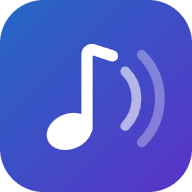
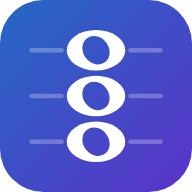
Novo ícone (acorde na pauta) e limpeza dos nomes e migrações antigas
O banco IndexedDB passa a se chamar "acordia" e a chave do tema "acordia-theme".
Sai a migração do localStorage da primeira versão, a troca de nomes padrão
antigos, o backup em formato de lista e o campo legado target em sanitizeEntry.

diff --git a/js/store.js b/js/store.js
@@ -1,10 +1,9 @@
 // Armazenamento no IndexedDB (músicas, medleys e preferências), com cópia em memória para leitura
-// síncrona pela interface. Na primeira vez, migra os dados da versão antiga (localStorage).
-import { sanitizeEntry, sanitizeOptions, songTitle, DEFAULT_OPTIONS } from "./core.js";
+// síncrona pela interface.
+import { sanitizeOptions, songTitle, DEFAULT_OPTIONS } from "./core.js";
 import { t } from "./i18n.js";
 
-// Nome interno mantido da primeira versão para não perder dados já salvos.
-const DB_NAME = "medley-generator", DB_VERSION = 1, STORES = ["songs","medleys","settings"];
+const DB_NAME = "acordia", DB_VERSION = 1, STORES = ["songs","medleys","settings"];
 export const data = {songs: new Map(), medleys: new Map(), settings: {}};
 let db = null, onError = () => {};
 
@@ -42,7 +41,6 @@ export async function init(errorHandler){
   }catch(e){
     db = null; onError(e);
   }
-  if(!data.settings.migrated){ await migrateLegacy(); setSetting("migrated", true); }
   cleanup();
   if(navigator.storage && navigator.storage.persist) navigator.storage.persist().catch(()=>{});
   return !!db;
@@ -71,29 +69,4 @@ export const newMedleyItem = medleyId => ({id:newId("i"), type:"medley", medleyI
 function cleanup(){
   const used = new Set([...data.medleys.values()].flatMap(m=>m.items.map(i=>i.songId)));
   [...data.songs.values()].forEach(s=>{ if(!s.text.trim() && !used.has(s.id)) deleteSong(s.id); });
-}
-
-async function migrateLegacy(){
-  let lib = [], state = null;
-  try{ lib = JSON.parse(localStorage.getItem("folha-biblioteca-v1") || "[]"); }catch(e){}
-  try{ state = JSON.parse(localStorage.getItem("folha-cifras-v1") || "null"); }catch(e){}
-  if(!Array.isArray(lib)) lib = [];
-  const byOld = new Map();
-  lib.forEach(raw=>{
-    const e = sanitizeEntry(raw); if(!e) return;
-    const s = createSong({title:e.title, text:e.text, type:e.type, key:e.key, bpm:e.bpm});
-    if(e.id) byOld.set(e.id, s);
-  });
-  if(state && Array.isArray(state.songs) && state.songs.some(t=>typeof t === "string" && t.trim())){
-    const at = (a, i) => Array.isArray(a) && typeof a[i] === "string" ? a[i] : "";
-    const items = [];
-    state.songs.forEach((text, i)=>{
-      if(typeof text !== "string" || !text.trim()) return;
-      let s = byOld.get(at(state.libIds, i));
-      if(!s) s = createSong({text, type: at(state.types, i) === "letra" ? "letra" : "", key: at(state.keys, i)});
-      items.push(newItem(s.id, {target: at(state.targets, i)}));
-    });
-    const m = createMedley(t("medley.defaultName"), items, Object.assign({}, DEFAULT_OPTIONS, {dedupe: state.dedupe !== false}));
-    setSetting("currentMedley", m.id);
-  }
 }

diff --git a/js/app.js b/js/app.js
@@ -106,7 +106,7 @@ function measure(s, fs, font){
 const THEME_ICON = {system:"monitor", light:"sun", dark:"moon"};
 function applyTheme(th){
   if(th === "light" || th === "dark") document.documentElement.dataset.theme = th; else delete document.documentElement.dataset.theme;
-  try{ localStorage.setItem("mg-theme", th); }catch(e){}
+  try{ localStorage.setItem("acordia-theme", th); }catch(e){}
   const name = t("theme." + th);
   $$("[data-theme-toggle]").forEach(b=>{
     b.querySelector("use").setAttribute("href", "#i-" + THEME_ICON[th]);
@@ -752,7 +752,7 @@ function exportLibrary(){
 async function importLibrary(file){
   try{
     const d = JSON.parse(await file.text());
-    const rows = Array.isArray(d) ? d : d && d.songs;
+    const rows = d && d.songs;
     if(!Array.isArray(rows)) throw 0;
     const idMap = new Map(), medMap = new Map(); let ns = 0, nm = 0;
     rows.forEach(raw => {
@@ -1113,8 +1113,6 @@ async function main(){
   initDropdowns();
   await store.init(() => toast(t("lib.saveFail")));
   setLang(data.settings.lang || detectLang());
-  // Nomes padrão antigos (de quando o app se chamava Medley Generator) passam para o nome atual.
-  data.medleys.forEach(m => { if(["Meu medley", "My medley", "Meu repertório", "My setlist"].includes(m.name) && m.name !== t("medley.defaultName")){ m.name = t("medley.defaultName"); store.saveMedley(m); } });
   applyLang();
   sheetMode = ["cifras","graus","letra"].includes(data.settings.sheetMode) ? data.settings.sheetMode : "cifras";
   metro = createMetronome(audio, data.settings.metro || {});

diff --git a/index.html b/index.html
@@ -17,7 +17,7 @@
 <link rel="stylesheet" href="css/app.css">
 <script>
   // Aplica o tema antes de pintar, para não piscar.
-  try{ const t = localStorage.getItem("mg-theme"); if(t === "light" || t === "dark") document.documentElement.dataset.theme = t; }catch(e){}
+  try{ const t = localStorage.getItem("acordia-theme"); if(t === "light" || t === "dark") document.documentElement.dataset.theme = t; }catch(e){}
 </script>
 <script src="vendor/jspdf.umd.min.js" defer></script>
 <script type="module" src="js/app.js"></script>

diff --git a/js/core.js b/js/core.js
@@ -344,8 +344,6 @@ export function sanitizeEntry(r){
     text: r.text,
     type: r.type === "letra" ? "letra" : "",
     key: ALL_KEYS.includes(r.key) ? r.key : "",
-    // `target` só existia nas bibliotecas antigas, que guardavam o tom de execução na música.
-    target: ALL_KEYS.includes(r.target) ? r.target : "",
     bpm: Number.isFinite(+r.bpm) && +r.bpm > 0 && +r.bpm < 400 ? String(Math.round(+r.bpm)) : "",
     ref: sanitizeUrl(r.ref),
     arrangements: sanitizeArrangements(r.arrangements),

diff --git a/tests/core.test.js b/tests/core.test.js
@@ -171,7 +171,7 @@ test("sanitizeEntry valida campos importados", () => {
   assert.equal(r.title, "Nome");
   assert.equal(r.type, "");
   assert.equal(r.key, "");
-  assert.equal(r.target, "Bb");
+  assert.equal(r.target, undefined);
   assert.equal(r.bpm, "");
   assert.ok(Number.isFinite(r.updatedAt));
   assert.equal(C.sanitizeEntry({ id: "a1", text: "X\ny", type: "letra", key: "F#m", bpm: 72.4, updatedAt: 5 }).key, "F#m");

diff --git a/README.md b/README.md
@@ -76,7 +76,7 @@ Ao criar um arquivo novo que o app carrega, inclua-o na lista `FILES` do [sw.js]
 | [js/core.js](js/core.js) | Funções puras: parser, graus, transposição, tom, teoria, treino, validação |
 | [js/layout.js](js/layout.js) | Montagem das folhas A4 (sem DOM) e SVG da pré-visualização |
 | [js/pdf.js](js/pdf.js) | PDF com jsPDF; as fontes só são baixadas na primeira exportação |
-| [js/store.js](js/store.js) | IndexedDB (músicas, medleys, preferências) e migração da versão antiga |
+| [js/store.js](js/store.js) | IndexedDB (músicas, medleys, preferências) |
 | [js/share.js](js/share.js) | Links de medley compactados |
 | [js/study.js](js/study.js), [js/audio.js](js/audio.js) | Modo Estudo e síntese de som (Web Audio) |
 | [js/hands.js](js/hands.js), [js/metronome.js](js/metronome.js) | Independência das mãos e metrônomo |
